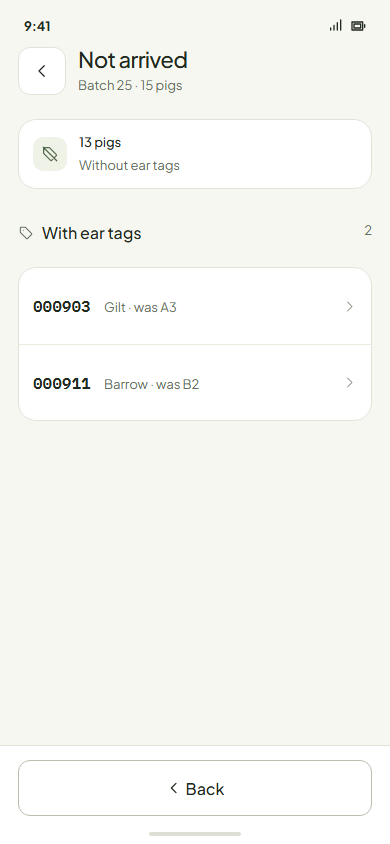
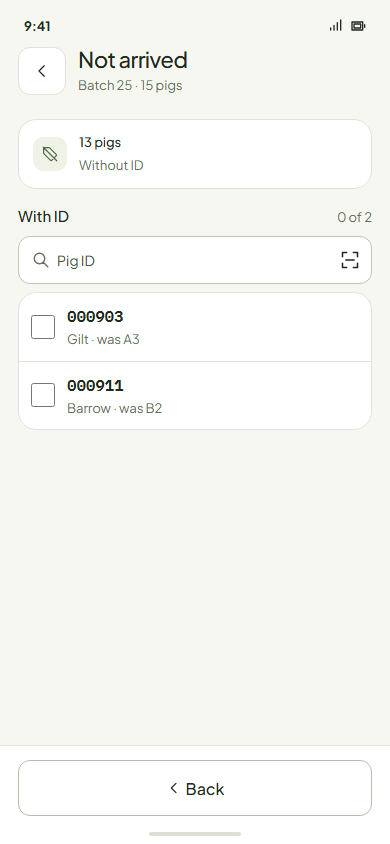
Count: Not arrived uses Fostering's With ID picker (search, scan, tick); a tick makes the footer Move to

Changed region(s): [[0.0308, 0.2464, 0.5231, 0.4929], [0.8615, 0.2464, 0.9538, 0.3697], [0.3385, 0.1848, 0.4615, 0.2156]]

diff --git a/features/count/PRD.md b/features/count/PRD.md
@@ -32,7 +32,7 @@ Reviewed on the Claude Design canvas ([canvas.md](canvas.md)). Ruled and redrawn
 - **A recount that changes nothing just saves; the balance sheet opens only when the unit's total changed** (owner, 2026-11-03). It is one ledger card in the owner's order: *Counted 60* at the top; each change a door with its signed figure in a tonal tile (*Found from other units +2*, *Not found −1*, the one amber, to the balancing sheet); *On record 59* at the bottom ([11](mock/mock-11-unit-balance.png); each line opens its pigs: [11b](mock/mock-11b-found.png), [11c](mock/mock-11c-not-found.png)). Pigs without ear tags counted in a different pen of the unit than recorded are normal work: the pens are updated and nothing is said. **The recount is drawn on the unit's pen map** (owner: "we should use pen view"): counted pens turn done-green with their count; a pen with pigs still to count shows what the record says; an empty pen says *Empty*; any pen can be counted, an empty one too; a pen not counted when you finish keeps its record (the footer says so: *D5 not counted · Keeps 38 if you finish*) ([10](mock/mock-10-unit-recount.png)).
 - **The pen count asks two questions** (owner, 2026-11-03: titles are questions): *How many pigs are in D4?* (the stepper), then *Which tagged pigs are here?* with *4 found* beside it (search or scan, ticked rows).
 - **Receiving is two parts: the plan, then the count** (owner, 2026-11-03; supersedes receiving pen by pen). *Receive pigs* is a task page like Farrowing's room (owner, 2026-11-03): one header, the task card (this unit's *Received* on the left; *Task overview ›* on the right, across units, where the crew switches unit and ends the task, as in every task). Below, the unit's pen map: every pen shows the pigs in it over its capacity (*9/15*); the planned pens are outlined, a suggestion only (no number per pen, nothing owed to a pen); pigs may go into any pen. Nothing is recorded while pigs are moving. Once they are in, tap any pen to count it (all pigs, then ear tags); a counted pen turns done-green, a pen off the plan too. What was counted is where the pigs are ([13](mock/mock-13-receive-plan.png), [14](mock/mock-14-receive-count.png), [12](mock/mock-12-receive-pen.png)). The map tile showing pigs over capacity, outlined when planned, is a proposed PenMap variant (*room*). **Pigs to move is the source room's pen map** (owner, 2026-11-03): a pen whose pigs all go shows the move glyph (not a tick, which reads as done); a pen sending some shows *12/13*; tapping it opens the pen with a toggle, *Move · 12* and *Stay · 1* ([9](mock/mock-9-transfer-out.png), [9b](mock/mock-9b-pen-move.png), [9c](mock/mock-9c-pen-stay.png)).
-- **Ending the transfer is Farrowing's End task** (owner, 2026-11-03: "look at how we do it for the farrowing end task"). After receiving, the task closes from *End task*: the heading answers (*Ready to end early* / *Ready to end*); one bar over the batch's pigs, then a row per part: *Received* (done) and *Not arrived* (with the amber "!", as *Leave the batch*; the row says what ending does: *Goes on the balancing sheet*). Never *Still to count*: the planned pens are a suggestion, so a pig is either received or not arrived (owner, 2026-11-03). *Not arrived* opens its pigs: those without ear tags as one number, those with ear tags listed, each opening the pig. Nothing else on the page (no *When you end*, no second count card; Farrowing has neither); then the hold ([16b](mock/mock-16b-end-early.png), [16d](mock/mock-16d-not-arrived.png), [16c](mock/mock-16c-end-ready.png)). The receiving and End task mocks render against a checkout that has Farrowing's room page and End task (PR 294).
+- **Ending the transfer is Farrowing's End task** (owner, 2026-11-03: "look at how we do it for the farrowing end task"). After receiving, the task closes from *End task*: the heading answers (*Ready to end early* / *Ready to end*); one bar over the batch's pigs, then a row per part: *Received* (done) and *Not arrived* (with the amber "!", as *Leave the batch*; the row says what ending does: *Goes on the balancing sheet*). Never *Still to count*: the planned pens are a suggestion, so a pig is either received or not arrived (owner, 2026-11-03). *Not arrived* opens its pigs: those without ID as one number; those with ID in Fostering's *With ID* picker (search and scan in one box, a read ticks). Ticking a pig that turned up makes the footer *Move to*, to put her in a pen; she leaves *Not arrived*. Nothing else on the page (no *When you end*, no second count card; Farrowing has neither); then the hold ([16b](mock/mock-16b-end-early.png), [16d](mock/mock-16d-not-arrived.png), [16e](mock/mock-16e-not-arrived-move.png), [16c](mock/mock-16c-end-ready.png)). The receiving and End task mocks render against a checkout that has Farrowing's room page and End task (PR 294).
 - **Sex and weight of pigs without ear tags** (owner question): recommended kept on the batch (sex split and the last average weight), never per pen, so a move or count never asks for them.
 
 ---
